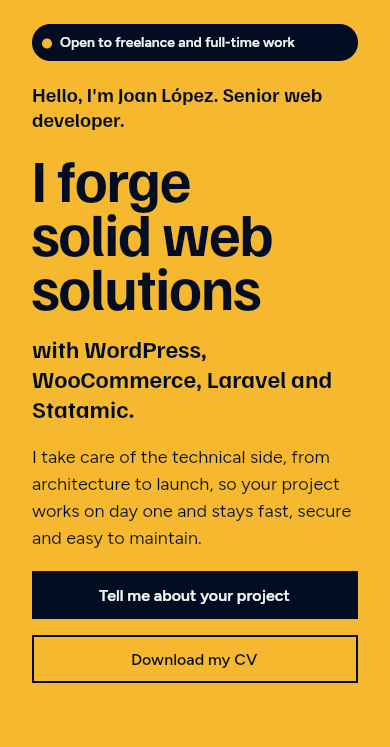
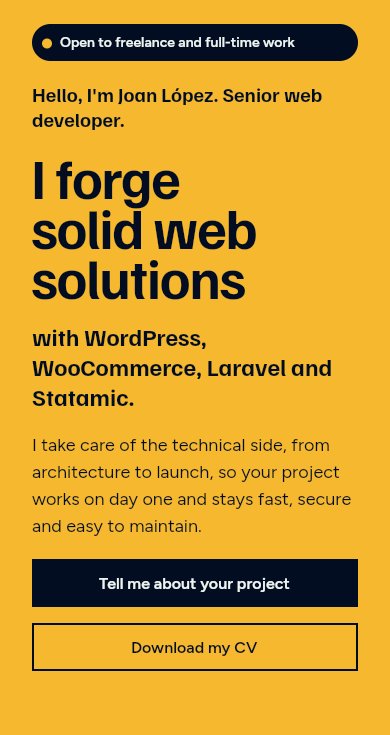
docs: match the hero claim sizes to the site

diff --git a/figma-build-guide.md b/figma-build-guide.md
@@ -27,7 +27,7 @@ A pointed arrow (96 x 40, concave quarter-ellipse sides) hangs from the top edge
 A separate full-width block, not part of the hero. Saffron fill (`surface.hero`), 32px padding top and bottom, nav vertically centred, same 1152px container. Eight nav links (`nav`, 32px gaps) on the left from `lg` (1024): Home, Services, Work, Recommendations, Process, Experience, Stack, Contact. `nav-lang` on the right: "ES / EN", the current language underlined (variant `Lang` en or es). Below `lg` the menu button replaces the links.
 
 ## Hero (saffron)
-`V2 / hero-block`. Padding 24 top at every breakpoint (`space-6`), 80 bottom (64 on phones). Text column, top to bottom: availability `pill` (ink fill, mint text, saffron dot 10px; "Open to freelance, contract and full-time work"), tagline "Hello, I'm Joan López. Senior web developer." (Familjen Grotesk 20/1.25 bold, `font.size.text-xl`), `h1` (Familjen Grotesk bold, line height 0.9: `font.size.hero` 88 at xl, `hero-md` 72 at lg and md, `hero-base` 60 at base, with `font.tracking.hero`, `hero-md` and `hero-base`), `role` "with WordPress, WooCommerce, Laravel and Statamic." (24/1.25 bold), `lead` (`body-lg`, 18/1.5), then two square buttons: "Tell me about your project" (primary ink) and "Download my CV" (outline ink). Column gap 20 in Penpot. The site trims text boxes to cap height and baseline (`text-box: trim-both cap alphabetic`) and Penpot cannot, so Penpot gaps are slightly smaller than the CSS gaps to look the same (20 here for `gap-8`). At xl: column 464, 32 gap, and the blacksmith woodcut filling the rest (656 wide), as tall as the column and cropped to cover. The `h1` reads "I forge" plus an animated two-line sentence; see the HeroBlock README and the board `spec / hero claim animation`.
+`V2 / hero-block`. Padding 24 top at every breakpoint (`space-6`), 80 bottom (64 on phones). Text column, top to bottom: availability `pill` (ink fill, mint text, saffron dot 10px; "Open to freelance, contract and full-time work"), tagline "Hello, I'm Joan López. Senior web developer." (Familjen Grotesk 20/1.25 bold, `font.size.text-xl`), `h1` (Familjen Grotesk bold, line height 0.9: `font.size.hero` 80 at xl, `hero-md` 72 from 640 (`sm`) up to xl, `hero-base` 56 below 640, with `font.tracking.hero`, `hero-md` and `hero-base`), `role` "with WordPress, WooCommerce, Laravel and Statamic." (24/1.25 bold), `lead` (`body-lg`, 18/1.5), then two square buttons: "Tell me about your project" (primary ink) and "Download my CV" (outline ink). Column gap 20 in Penpot. The site trims text boxes to cap height and baseline (`text-box: trim-both cap alphabetic`) and Penpot cannot, so Penpot gaps are slightly smaller than the CSS gaps to look the same (20 here for `gap-8`). At xl: column 464, 32 gap, and the blacksmith woodcut filling the rest (656 wide), as tall as the column and cropped to cover. The `h1` reads "I forge" plus an animated two-line sentence; see the HeroBlock README and the board `spec / hero claim animation`.
 
 ## Facts stripe (navy, below the hero)
 `V2 / facts-block`. Full-width navy block (`surface.stack`), padding 40 top and bottom, same container. Two `figure`s (number and label) then three `fact`s (Core stack, Based in, Languages), all top-aligned. At xl one row, gap 48, widths 159, 179, 234, 156, 234 (grid `max-content max-content 3fr 2fr 3fr`).
@@ -63,7 +63,7 @@ Padding 32 top and bottom, two rows 32px apart. Top row (space-between): on the 
 Same blocks in the same order, one column, built on `Home V2 / base 390`. Side padding 32 (container 326), block vertical padding 64 (`space-16`), same `surface.*` fills, arrow centred (96 x 40 stays). Only the Display styles shrink (see "Display mobile" in `tokens.json`; tokens `font.size.*-base` and `font.tracking.*-base`): hero 60, h2 36, mail 30, quote-big 24; every other style keeps its desktop size.
 
 - **Header:** "ES / EN" (`nav-lang`) on the left, `menu-button` on the right, no nav links and no brand name (the name is in the hero title). The open menu is the `menu-open` component (variants `Breakpoint` md, base; main on "02 v1. Home", unchanged from V1, linked copies `Menu / md 768 (open)` and `Menu / base 390 (open)` next to the boards on "05 v2. Home"): saffron panel, same header with `menu-button-close` on the right, then the eight links in `h3-service` (24 gap).
-- **Hero:** no image. Availability pill full width with shorter copy, "Open to freelance and full-time work" (keep it as a separate short string for i18n), tagline, `h1` at 60 (`hero-base`), role, lead, then the two buttons stacked at full width (gap 16, label centred). Column 326, 751 tall.
+- **Hero:** no image. Availability pill full width with shorter copy, "Open to freelance and full-time work" (keep it as a separate short string for i18n), tagline, `h1` at 56 (`hero-base`), role, lead, then the two buttons stacked at full width (gap 16, label centred). Column 326, 737 tall.
 - **Facts:** two columns of 151, gap 24 across and 32 down. Items have auto height, never a fixed one. 501 tall.
 - **Cards:** services and recommendations in a single column at full width, gap 24, card padding 24 on recommendation cards (no author photo); cards grow to fit their text. Chips wrap. Work: two stacked featured cards, four primary and three secondary cards in one column of 326, gap 24 (4624 tall).
 - **Quote block:** decorative marks 128 wide in the corners, text left-aligned; author and role on separate lines (no leading dot).
@@ -77,7 +77,7 @@ Same blocks in the same order, one column, built on `Home V2 / base 390`. Side p
 Same blocks in the same order, built on `Home V2 / md 768` (open menu: the `menu-open` md copy, `Menu / md 768 (open)`). Side padding 32 (container 704), block padding 80, same `surface.*` fills, arrow centred. Display styles use `Display tablet` (tokens `font.size.*-md` and `font.tracking.*-md`: hero 72, h2 48, mail 48, quote-big 30); everything else keeps its desktop size.
 
 - **Header:** same as phone: "ES / EN" left, `menu-button` right; the eight links only appear from `lg` (1024px).
-- **Hero:** no image (as on phone). One text column 560 wide, centred in the container, `h1` at 72 (`hero-md`), buttons side by side (gap 16). 624 tall.
+- **Hero:** no image (as on phone). One text column 560 wide, centred in the container, `h1` at 72 (`hero-md`), buttons side by side (gap 16). 619 tall.
 - **Facts:** two columns of 340, gap 24 across and 32 down. Items have auto height, never a fixed one. 388 tall.
 - **Cards:** two columns of 340 (gap 24) for services (rows 206, 206 and 188 high) and recommendations. Work: stacked featured cards, four primary cards in two columns of 340 and three secondary cards in two columns (2 + 1); 2818 tall. Cards in a row share the height of the tallest, and the author line stays pinned to the bottom of recommendation cards. No author photo on tablet.
 - **Quote block:** decorative marks 192 wide in the corners, 40px from the side (same as desktop), text 30 light in a 640px column centred in the block.
@@ -91,7 +91,7 @@ Same blocks in the same order, built on `Home V2 / md 768` (open menu: the `menu
 Every block has an `lg` variant, built on `Home V2 / lg 1024`. Container 960, side padding 32, block padding 80, same `surface.*` fills, arrow centred. `section-header` uses its `md` variant (title 48) inside lg blocks; the hero `h1` uses `hero-md` (72).
 
 - **Header:** same as xl (eight nav links on the left, `nav-lang` on the right) in the 960 container. The links appear from here; below lg the menu button replaces them.
-- **Hero:** column 464 and the woodcut 464 wide, cropped. 651 tall.
+- **Hero:** column 464 and the woodcut 464 wide, cropped. 646 tall.
 - **Facts:** three columns of 304 (gap 24 across, 32 down). 266 tall.
 - **Services:** three columns of 304 (gap 24); cards in a row share the tallest height (rows 245 and 221). 767 tall.
 - **Quote block:** md text sizes (quote 30, `quote-big` md), text column 768 centred, quotation marks 224 wide, 40px from the sides and 12px outside the top and bottom edges. 285 tall.

diff --git a/README.md b/README.md
@@ -22,9 +22,9 @@ The site is built in Astro in a separate repository, [jlp-website](https://githu
 
 **Shape.** Small labels are pills (`radius-full`): chips, fact pills, date pills. The client name on a work card is plain uppercase text in the `tag` style, not a pill. Buttons are square (`radius-none`, 0) so they never read as labels. Service cards round two opposite corners (`radius-48`, 48px, top right and bottom left). Each block after a block of a different colour starts with a pointed arrow in the previous block's colour (the Section arrow), so one block points into the next. Work cards use `radius-48` on two opposite corners, like service cards (the box belongs to the work block; the previous version had nearly square `radius-lg` cards). All recommendation cards, featured or regular, share one radius (`radius-28`, 28px). Radius token names follow Tailwind: `radius-lg` is `rounded-lg`, `radius-full` is `rounded-full`, `radius-none` is `rounded-none`. The two values Tailwind has no class for are written as `rounded-[28px]` (`radius-28`) and `rounded-[48px]` (`radius-48`).
 
-**Type.** Familjen Grotesk (700, tight tracking) for display and titles. Figtree for text, labels and buttons, for the contact address at weight 400 (`mail`) and for the featured quote at weight 400 (`quote-big`). Both from Google Fonts. Sizes are Tailwind defaults, except the hero: the tagline "Hello, I'm Joan López. Senior web developer." is 20px (`font.size.text-xl`, bold, line height 1.25) and the `h1`, "I forge" plus a cycling two-line sentence, is 88px at xl, 72 at lg and md and 60 at base (`font.size.hero`, `hero-md`, `hero-base`; line height 0.9, tracking -2.2, -1.8 and -1.5). The step numbers of How I work are 176px (`font.size.step-number`, tracking -7.04). h2 is `text-6xl` (60px), role and card titles `text-2xl` (24px), hero lead `text-lg` (18px). The `font.size.h1` token (96, with `h1-md` 60 and `h1-base` 48) and the `Display/h1` style are only used by the V1 hero and the Foundations specimen. Text in pills and tags is always 14px (`pill`, `label`, `tag`); navigation text is always 16px (`nav`). Titles tighten as they grow: hero -2.2px tracking, h2 -1.5px.
+**Type.** Familjen Grotesk (700, tight tracking) for display and titles. Figtree for text, labels and buttons, for the contact address at weight 400 (`mail`) and for the featured quote at weight 400 (`quote-big`). Both from Google Fonts. Sizes are Tailwind defaults, except the hero: the tagline "Hello, I'm Joan López. Senior web developer." is 20px (`font.size.text-xl`, bold, line height 1.25) and the `h1`, "I forge" plus a cycling two-line sentence, is 80px at xl, 72 from 640 (`sm`) up to xl and 56 below 640 (`font.size.hero`, `hero-md`, `hero-base`; line height 0.9, tracking -2, -1.8 and -1.4). The step numbers of How I work are 176px (`font.size.step-number`, tracking -7.04). h2 is `text-6xl` (60px), role and card titles `text-2xl` (24px), hero lead `text-lg` (18px). The `font.size.h1` token (96, with `h1-md` 60 and `h1-base` 48) and the `Display/h1` style are only used by the V1 hero and the Foundations specimen. Text in pills and tags is always 14px (`pill`, `label`, `tag`); navigation text is always 16px (`nav`). Titles tighten as they grow: hero -2px tracking, h2 -1.5px.
 
-**Long-form pages.** Blog, case studies and legal pages use the `Content` styles: h1 to h6 in Familjen Grotesk 700, body in Figtree 18px with line height 1.5, a 65ch reading column at the left of the container, and the prose rules in `tokens.json`. Everything maps to default Tailwind classes (`text-lg leading-normal`, `max-w-prose`, `space-y-6`). Sizes step at breakpoints instead of scaling fluidly, so Tailwind needs no custom values. Only the Display styles shrink (each size has a `font.size.*` and `font.tracking.*` token per breakpoint, bound to the text in Penpot): desktop sizes from `xl` (1280px), `Display tablet` from `md` (768px) up to `xl` (hero 72, h2 48, mail 48, quote-big 30) and `Display mobile` below `md` (hero 60, h2 36, mail 30, quote-big 24). There are four frames, 1280, 1024 (`lg`, container 960), 768 and 390; at `lg` the hero uses its `md` size and the `section-header` its `md` variant. Versions live in Penpot asset folders: the components of the current design are in folder `V2` (page "04 v2. Components"); components that did not change stay at the root (page "01 v1. Components"). The current Home is page "05 v2. Home"; "02 v1. Home" is the previous one.
+**Long-form pages.** Blog, case studies and legal pages use the `Content` styles: h1 to h6 in Familjen Grotesk 700, body in Figtree 18px with line height 1.5, a 65ch reading column at the left of the container, and the prose rules in `tokens.json`. Everything maps to default Tailwind classes (`text-lg leading-normal`, `max-w-prose`, `space-y-6`). Sizes step at breakpoints instead of scaling fluidly, so Tailwind needs no custom values. Only the Display styles shrink (each size has a `font.size.*` and `font.tracking.*` token per breakpoint, bound to the text in Penpot): desktop sizes from `xl` (1280px), `Display tablet` from `md` (768px) up to `xl` (hero 72, h2 48, mail 48, quote-big 30) and `Display mobile` below `md` (hero 56, h2 36, mail 30, quote-big 24). The hero is the one exception: it takes its tablet size from 640 (`sm`), not from `md`. There are four frames, 1280, 1024 (`lg`, container 960), 768 and 390; at `lg` the hero uses its `md` size and the `section-header` its `md` variant. Versions live in Penpot asset folders: the components of the current design are in folder `V2` (page "04 v2. Components"); components that did not change stay at the root (page "01 v1. Components"). The current Home is page "05 v2. Home"; "02 v1. Home" is the previous one.
 
 **Layout.** One container (`container`, 1152px) inside full-bleed blocks. Blocks use `space-20` vertical padding. Cards sit in auto-fit grids with a `space-5` gap. Hero: text left and engraving right from `lg` (tablet and phone have no hero image; transparent woodcut, navy ink, fills the rest of the row at the height of the text column, cropped to cover). Under the hero, a full-width navy stripe holds the key facts, inside the same container: two figures and three facts. Every block has an `lg` step at 1024 with a 960px container and 32px side padding. Cards in one row share the height of the tallest card. In every card the last part stays pinned to the bottom, whatever the length of the content: the pills of a work card (including the outline "More work" cards) and the author name and role of a recommendation. The text above takes the free height (`flex flex-col`, body `flex-1`).
 

diff --git a/components/HeroBlock/README.md b/components/HeroBlock/README.md
@@ -1,9 +1,9 @@
-Saffron block (`surface.hero`). Text column, top to bottom: availability `pill` ("Open to freelance, contract and full-time work"; on phones "Open to freelance and full-time work", full width), tagline "Hello, I'm Joan López. Senior web developer." (Familjen Grotesk 20/1.25 bold, `font.size.text-xl`), `h1` (Familjen Grotesk bold, line height 0.9: `font.size.hero` 88 at xl, `font.size.hero-md` 72 at lg and md, `font.size.hero-base` 60 at base, with `font.tracking.hero` -2.2, `hero-md` -1.8 and `hero-base` -1.5), role "with WordPress, WooCommerce, Laravel and Statamic." (24/1.25 bold), `lead` (`body-lg`: 18/1.5) and two buttons (side by side, gap 16; stacked at full width on phones).
+Saffron block (`surface.hero`). Text column, top to bottom: availability `pill` ("Open to freelance, contract and full-time work"; on phones "Open to freelance and full-time work", full width), tagline "Hello, I'm Joan López. Senior web developer." (Familjen Grotesk 20/1.25 bold, `font.size.text-xl`), `h1` (Familjen Grotesk bold, line height 0.9: `font.size.hero` 80 at xl, `font.size.hero-md` 72 from 640 (`sm`) up to xl, `font.size.hero-base` 56 below 640, with `font.tracking.hero` -2, `hero-md` -1.8 and `hero-base` -1.4), role "with WordPress, WooCommerce, Laravel and Statamic." (24/1.25 bold), `lead` (`body-lg`: 18/1.5) and two buttons (side by side, gap 16; stacked at full width on phones).
 
 Padding 24 on top at every breakpoint (`space-6`), 80 at the bottom (64 on phones). The column gap is 20 in Penpot (`gap-8` in CSS), because the site trims text boxes to cap height and baseline and Penpot cannot, so Penpot gaps are slightly smaller.
 
-xl: column 464, 32 gap, and the blacksmith woodcut filling the rest (656 wide), as tall as the column and cropped to cover. lg: column 464 and the woodcut 464 wide, cropped. md: no image, one column 560 wide, centred. base: no image, column 326. Heights: xl 690, lg 651, md 624, base 751.
+xl: column 464, 32 gap, and the blacksmith woodcut filling the rest (656 wide), as tall as the column and cropped to cover. lg: column 464 and the woodcut 464 wide, cropped. md: no image, one column 560 wide, centred. base: no image, column 326. Heights on the site, with the English copy: xl 666, lg 646, md 619, base 737. The Penpot boards are a few px off (671, 650, 623, 735) because Penpot cannot trim the text boxes.
 
-Claim animation. The `h1` reads "I forge" plus a two-line sentence that cycles through four: "solid web solutions" (default), "web apps that scale", "web shops that sell", "performant websites", then back to the first. Each holds 2 s, then the next decodes in 700 ms: characters turn from random glyphs (a to z and symbols, redrawn every 45 ms) into the final letters, roughly left to right with a little jitter. Spaces never scramble. A scrambled glyph is never wider than the letter it hides, so lines never reflow; every sentence is exactly two lines after "I forge", and the `h1` reserves the height of the tallest. It pauses while off screen or while the tab is hidden (the current sentence shows settled). With `prefers-reduced-motion` there is no cycling and only the first sentence shows. Screen readers always read "I forge solid web solutions" (the animated text is `aria-hidden`). Penpot shows this on the board `spec / hero claim animation`, next to the variants.
+Claim animation. The `h1` reads "I forge" plus a two-line sentence that cycles through four: "solid web solutions" (default), "web apps that scale", "web shops that sell", "performant websites", then back to the first. Each holds 2 s, then the next decodes in 700 ms: characters turn from random glyphs (a to z and symbols, redrawn every 45 ms) into the final letters, roughly left to right with a little jitter. Spaces never scramble. A scrambled glyph is never wider than the letter it hides, so lines never reflow; every sentence is exactly two lines after "I forge", and the `h1` reserves the height of the tallest. Claim lines never wrap, so each line of a new sentence must fit 296 wide at 56 (a 360 phone). It pauses while off screen or while the tab is hidden (the current sentence shows settled). With `prefers-reduced-motion` there is no cycling and only the first sentence shows. Screen readers always read "I forge solid web solutions" (the animated text is `aria-hidden`). Penpot shows this on the board `spec / hero claim animation`, next to the variants.
 
 The previous `hero-block` (root, no folder) is V1; it uses the `h1` style (`font.size.h1` 96). Penpot name `V2 / hero-block` (asset folder `V2`, see the build guide), variants `Breakpoint` xl, lg, md, base. The image is rendered only from `lg`.
